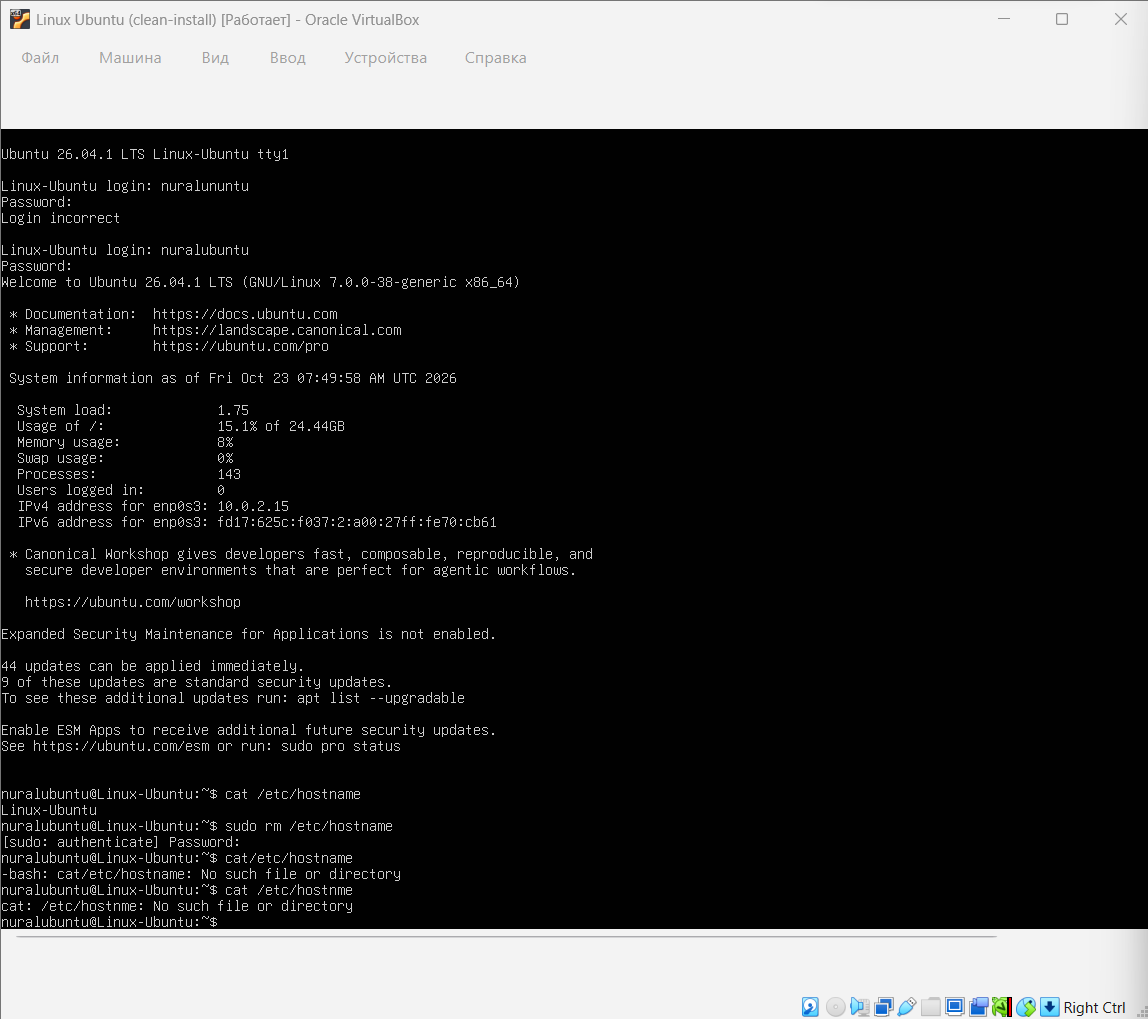
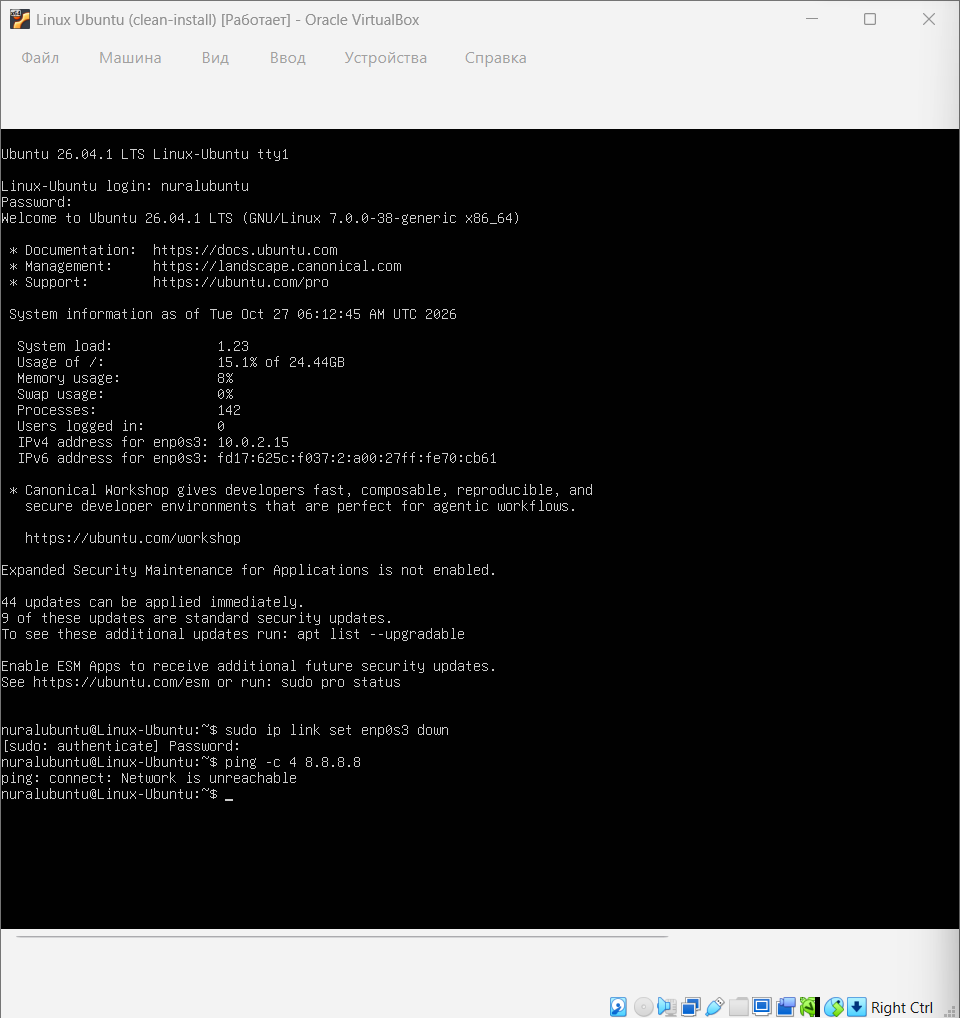
Final fix: correct filenames, 2 vCPU specs, network break and restored-check

diff --git a/labs/lab01-first-vm/README.md b/labs/lab01-first-vm/README.md
@@ -2,20 +2,20 @@
 
 **Pair:** Kuspek Nuraly (Solo)  
 **Driver first half:** Kuspek Nuraly  
-**Machine:** Laptop running Windows 11 (4 cores/8 threads, 16 GB RAM), guest Ubuntu 26.04.1 LTS  
+**Machine:** Laptop running Windows 11 (AMD Ryzen 5 7535HS, 6 cores/12 threads, 16 GB RAM), guest Ubuntu 26.04.1 LTS  
 **Date:** 24.10.2026  
 
 ## What I did
 
 1. Installed Oracle VirtualBox 7.2. Licence: [GPL 3.0](https://www.gnu.org/licenses/gpl-3.0.html).
-2. Created VM `lab01-ubuntu`: 2 vCPU, 4 GB RAM, 25 GB dynamic disk, NAT network with SSH port forwarding (Host 2222 -> Guest 22).
+2. Created VM `Linux Ubuntu`: 2 vCPU, 4 GB RAM, 25 GB dynamic disk, NAT network with SSH port forwarding (Host 2222 -> Guest 22).
 3. Installed Ubuntu 26.04.1 LTS, verified SSH connectivity, and took snapshot `clean-install`.
-4. Broke it: broke network configuration using Netplan / link down command, making guest network unreachable.
-5. Rolled back to `clean-install`: restored snapshot `clean-install` in VirtualBox; verified network restoration and SSH access.
+4. Broke it: brought down the network interface (`sudo ip link set enp0s3 down`), causing network unreachability.
+5. Rolled back to `clean-install`: restored snapshot `clean-install` in VirtualBox; verified network restoration inside the guest with `ping`.
 
 ## Resource justification
 
-My physical host machine is equipped with a 4-core/8-thread CPU and 16 GB of physical RAM running Windows 11. I allocated 2 vCPUs (25% of host logical cores) and 4 GB of RAM (25% of total system memory) to the virtual machine. This allocation is optimal for a headless Linux server running minimal CLI utilities and background daemons without risking memory starvation or paging on the host OS, leaving enough physical cores and 12 GB of RAM entirely free for Windows 11 background processes. A 25 GB dynamic virtual disk was selected so that the VM only consumes disk space on demand while providing ample capacity for OS files and temporary packages.
+My physical host machine is equipped with an AMD Ryzen 5 7535HS processor (6 physical cores / 12 threads) and 16 GB of physical RAM running Windows 11. I allocated 2 vCPUs (16.6% of host logical execution threads) and 4 GB of RAM (25% of total system memory) to the virtual machine. This allocation is optimal for a headless Linux server running minimal CLI utilities without risking memory starvation or paging on the host OS, leaving 10 threads and 12 GB of RAM entirely free for Windows 11 background processes. A 25 GB dynamic virtual disk was selected to provision storage on demand while providing ample capacity for OS files and temporary packages.
 
 ## Result
 
@@ -23,12 +23,13 @@ The VM boots; the break-and-rollback cycle is shown in the evidence below.
 
 ## What did not work the first time
 
-During the initial setup and SSH forwarding configuration, duplicate file extensions (e.g., double `.png.png` extensions) occurred during evidence file naming in Windows Explorer. In addition, command chaining during remote output redirection required precise path adjustments to correctly stream `lsb_release -a` into `labs/lab01-first-vm/evidence/guest-release.txt`. After renaming files directly via shell commands and checking the relative working directory, the evidence was properly recorded and snapshot rollback verified.
+Initially, the VM configuration had 5 vCPUs assigned, and the fault was tested by modifying hostname configuration instead of breaking network connectivity. After restoring the clean snapshot, the VM CPU allocation was adjusted to 2 vCPUs to balance host resources, network breakdown was properly executed via `sudo ip link set enp0s3 down`, and network recovery was verified with ping after rollback.
 
 ## Evidence
 
-* [evidence/vm-settings.png](evidence/vm-settings.png) — CPU, memory and disk as configured
+* [evidence/vm-settings.png](evidence/vm-settings.png) — CPU (2 vCPU), memory (4 GB) and disk (25 GB) as configured
 * [evidence/port-forwarding.png](evidence/port-forwarding.png) — Port forwarding rule (Host 2222 to Guest 22)
-* [evidence/guest-release.txt](evidence/guest-release.txt) — Ubuntu 26.04.1 LTS is running in the guest
-* [evidence/broken.png](evidence/broken.png) — the guest in its broken state showing the before/after network failure
-* [evidence/snapshot-list.png](evidence/snapshot-list.png) — the snapshot, after the rollback
+* [evidence/guest-release.txt](evidence/guest-release.txt) — Ubuntu 26.04.1 LTS running in the guest
+* [evidence/broken.png](evidence/broken.png) — the guest in its broken state showing network failure
+* [evidence/snapshot-list.png](evidence/snapshot-list.png) — the snapshot list after rollback
+* [evidence/restored-check.png](evidence/restored-check.png) — ping check inside the guest confirming network restoration
